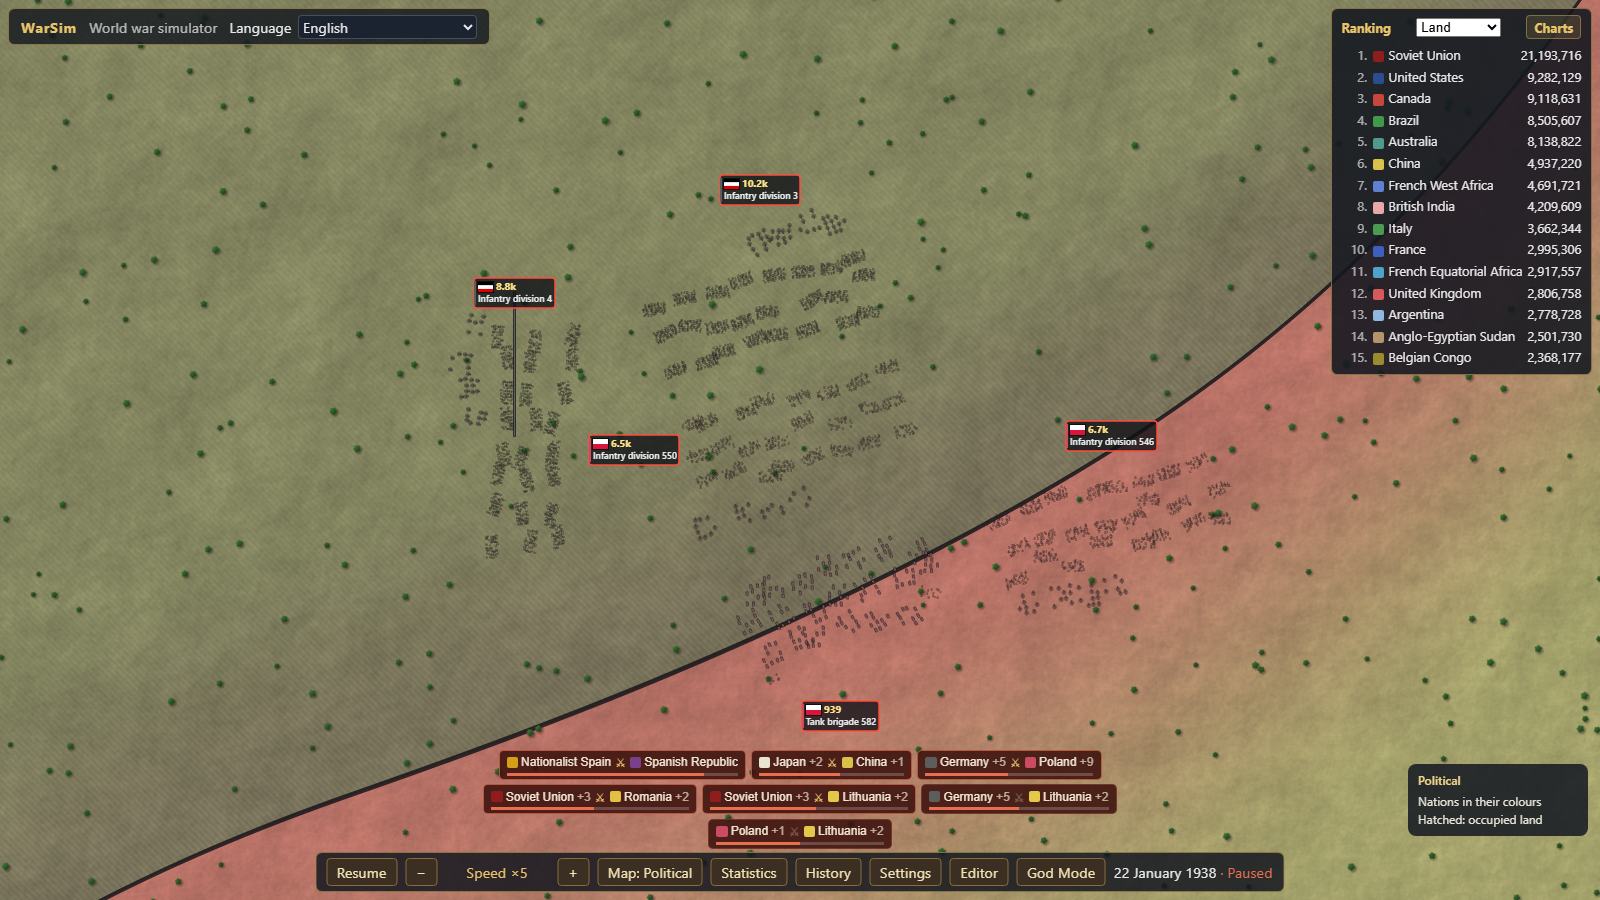
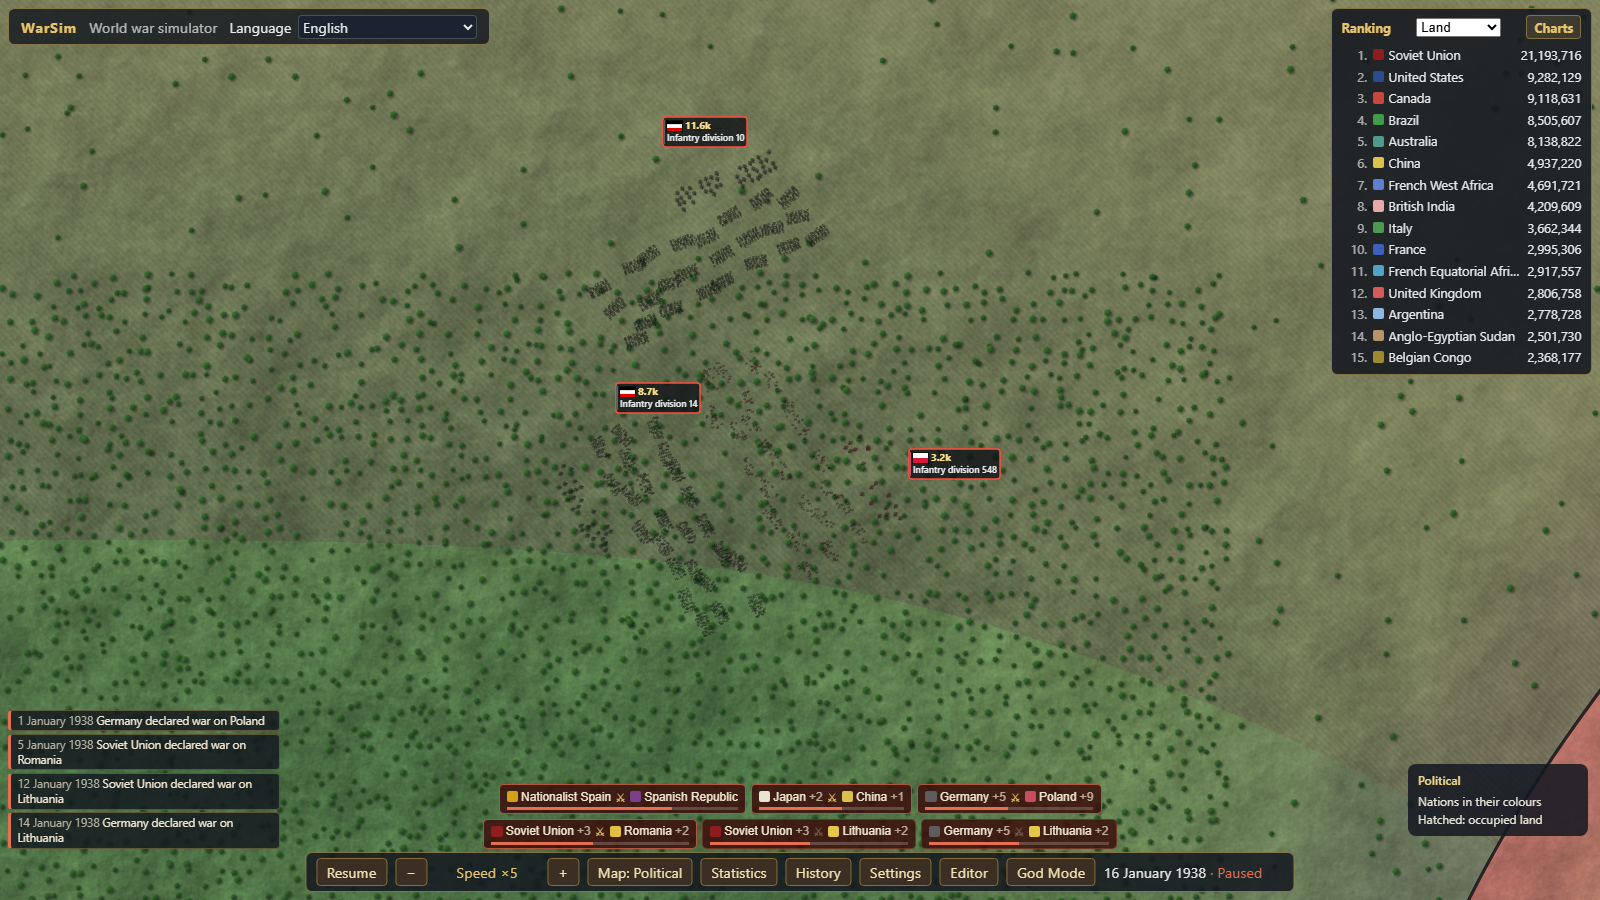
PLAN 5.8w11: the flank case, found (ADR-365)
Claude-Session: https://claude.ai/code/session_01F7jwXELFm2N2ZdjzXuwQhn

diff --git a/tests/helpers/flankCase.ts b/tests/helpers/flankCase.ts
@@ -1,0 +1,61 @@
+import { NATIONS_1938, SIZE_1938 } from '../../src/sim/scenario1938';
+import { Sim } from '../../src/sim/sim';
+import { contactsOf, deployOf, elementIndex, slotCount } from '../../src/sim/systems/elements';
+import { assets1938 } from './earth';
+
+// Where a block comes to an enemy block from its flank (PLAN 3.11c2), found in Node: the worker
+// runs the same sim (I4). The critic's other game: seed 4242, Germany declares war on Poland at
+// tick 0 (God Mode).
+
+export interface FlankCase {
+  /** The day, whole days from the start, the three are in contact on. */
+  day: number;
+  /** The German formation the Pole's block faces, the German one that comes to it, and the Pole. */
+  faced: number;
+  comer: number;
+  pole: number;
+  /** How far round from the way the Pole's block faces the comer stands, degrees. */
+  angle: number;
+}
+
+/** From the way a block faces, how far round a comer stands to come from its flank, degrees. */
+const FLANK: readonly [number, number] = [45, 135];
+
+/**
+ * The first day from `firstDay` to `lastDay` (the lowest Pole's id on it) on which a Polish
+ * formation in contact is front to front with a German one (each the other's nearest enemy in
+ * contact) and one other German formation in contact, whose nearest enemy is that Pole, stands
+ * off the way the Pole's block faces by FLANK degrees.
+ */
+export function flankCase(firstDay: number, lastDay: number): FlankCase {
+  const sim = new Sim({ scenario: '1938', seed: 4242, assets: assets1938(SIZE_1938.w) });
+  const tag = (t: string): number => NATIONS_1938.findIndex((n) => n.tag === t) + 1;
+  const [GER, POL] = [tag('GER'), tag('POL')];
+  sim.command({ kind: 'declareWar', attacker: GER, defender: POL });
+  let found: FlankCase | null = null;
+  for (let day = 1; day <= lastDay && found === null; day++) {
+    sim.step(23);
+    // The day's last hour, and the state after it.
+    sim.step(1, day < firstDay ? undefined : (w) => {
+      const c = w.formations.cols;
+      const contacts = contactsOf(w);
+      const idx = elementIndex(w);
+      const cases: FlankCase[] = [];
+      for (const [comer, pole] of contacts) {
+        if (c.nation[comer] !== GER || c.nation[pole] !== POL) continue;
+        const faced = contacts.get(pole);
+        if (faced === undefined || faced === comer || c.nation[faced] !== GER || contacts.get(faced) !== pole) continue;
+        // One comer alone: no line of others before or beside it.
+        if ([...contacts].some(([o, p]) => p === pole && o !== comer && o !== faced)) continue;
+        const block = deployOf(w, pole, slotCount(w, pole, idx.get(pole)?.length ?? 0));
+        if (!block) continue;
+        const off = Math.atan2(c.y[comer]! - block.y, c.x[comer]! - block.x) - block.facing;
+        const angle = (Math.abs(Math.atan2(Math.sin(off), Math.cos(off))) * 180) / Math.PI;
+        if (angle >= FLANK[0] && angle <= FLANK[1]) cases.push({ day, faced, comer, pole, angle });
+      }
+      found = cases.sort((a, b) => a.pole - b.pole)[0] ?? null;
+    });
+  }
+  if (found === null) throw new Error(`no block comes to a Polish block from its flank from day ${firstDay} to ${lastDay}`);
+  return found;
+}

diff --git a/tests/e2e/stackBlocks1938.spec.ts b/tests/e2e/stackBlocks1938.spec.ts
@@ -3,6 +3,7 @@ import { mkdirSync } from 'node:fs';
 import path from 'node:path';
 import type {} from '../../src/app/testApi';
 import { NATIONS_1938 } from '../../src/sim/scenario1938';
+import { flankCase } from '../helpers/flankCase';
 
 // PLAN 3.11c1 (the critic's R3-B3: "five tank formations share one cell as interleaved
 // diamonds", `critic/shots/c3j_11_tank_paused_0040m.png`): the critic's game (seed 1212, the
@@ -136,25 +137,29 @@ test('the blocks of a stack of tank corps and tank brigades in contact do not st
 // German division 4 comes to the Pole's block from 72° off the way it faces, its flank: it
 // stopped a block's depth from the block's middle and stood in it (their middles 0.17 cells
 // apart, a block being 0.24 wide) and in division 3's block. It now stops the gap short of both.
+// Since the air AI the game is another, and those three are not in contact on day 21: the case
+// is found in Node, the first day from day 14 with one (`flankCase`, PLAN 5.8w11).
 test('a block that comes to an enemy block from its flank stands in neither it nor the block it faces', async ({ page }, info) => {
   test.setTimeout(300_000);
   const out = process.env['EVIDENCE'] !== undefined ? path.resolve(import.meta.dirname, '../../docs/evidence/3.11') : info.outputPath();
   mkdirSync(out, { recursive: true });
   const GER = nation('GER');
-  const [FACED, COMER, POLE] = [3, 4, 550];
+  const flank = flankCase(14, 45);
+  const [FACED, COMER, POLE] = [flank.faced, flank.comer, flank.pole];
+  console.log(`day ${flank.day}: Polish ${POLE} faces German ${FACED}; German ${COMER} comes to it ${flank.angle.toFixed(0)}° off the way it faces`);
   await page.setViewportSize(VIEW);
   await page.goto('/?scenario=1938&paused=1&seed=4242');
   await page.waitForFunction(() => (window.__warsim?.view?.frames ?? 0) > 0 && window.__warsim!.hud.stats.value !== null && window.__warsim!.sim.mapLayers !== null, null, { timeout: 60_000 });
-  await page.evaluate(async ({ GER, POL }) => {
+  await page.evaluate(async ({ GER, POL, days }) => {
     const sim = window.__warsim!.sim;
     sim.command({ kind: 'declareWar', attacker: GER, defender: POL });
     let tick = 0;
-    for (let d = 0; d < 21; d++) tick = (await sim.step(24)).tick;
+    for (let d = 0; d < days; d++) tick = (await sim.step(24)).tick;
     await new Promise<void>((done) => {
       const wait = (): void => (window.__warsim!.view!.lastTick === tick ? done() : void setTimeout(wait, 5));
       wait();
     });
-  }, { GER, POL });
+  }, { GER, POL, days: flank.day });
 
   // The three are who the test says they are: of Germany and of Poland, in contact.
   const who = await page.evaluate(async ({ ids, GER, POL }) => {

diff --git a/DECISIONS.md b/DECISIONS.md
@@ -167,6 +167,21 @@ level directly; hillshade at higher zoom adds procedural detail (SPEC §8 T2/T3)
 runtime. Regenerating assets is idempotent (`npm run data -- --check` fails on drift), and
 `tests/unit/data-manifest.test.ts` verifies sha256, sizes, known places and pyramid consistency.
 
+### ADR-365 · 2026-10-14 · accepted — The flank case, found (PLAN 5.8w11)
+
+- **Found** (5.8h, `check:review`, the fourth run): `stackBlocks1938`'s flank test (PLAN 3.11c2)
+  named its three formations (German 3 and 4, Polish 550, day 21 of seed 4242 with Germany at
+  war with Poland); none of them is in contact on day 21 now (the game since the air AI).
+- **Decision.** The case is found in Node (`tests/helpers/flankCase.ts`, as `armourLosses`):
+  the first day from day 14 on which a Pole is front to front with a German formation and one
+  other German formation, whose nearest enemy is that Pole and no third's, stands 45° to 135°
+  off the way the Pole's block faces. Day 15 now: Polish 548 faces German 14, German 10 comes
+  to it from 94°. What the test holds the blocks to is unchanged.
+- **The pin holds**: no sim input changed.
+- **Tests.** `stackBlocks1938` green by hand (2 of 2; 1.38 to 1.92 km between the three blocks'
+  nearest elements). The evidence of 3.11 taken again (`c2-from-the-flank-20m.png`: three
+  blocks, none in another).
+
 ### ADR-364 · 2026-10-14 · accepted — Research on the page, in 1939 (PLAN 5.8w10)
 
 - **Found** (5.8h, `check:review`, the fourth run): `research1938` (PLAN 3.1e) wants Germany's

diff --git a/PROGRESS.md b/PROGRESS.md
@@ -15266,3 +15266,16 @@ No rule changed and nothing on screen changed. One task came out of it.
 - **The gate:** green (the whole unit suite, 1,391 of 1,391: the working tree's `package.json`;
   the changed spec).
 - **Next:** PLAN 5.8w11.
+
+## 2026-10-14 — PLAN 5.8w11: the flank case, found (ADR-365)
+
+- **Found:** the test's three formations (German 3, 4, Polish 550 on day 21 of seed 4242) are
+  not in contact in today's game.
+- **Done:** `tests/helpers/flankCase.ts` (new) finds the first day from 14 with a German block
+  that comes to a Polish one from its flank (day 15: 548, 14, 10 from 94°); the test plays it.
+- **Tests:** `stackBlocks1938` green by hand (2 of 2).
+- **Looked at:** `docs/evidence/3.11/c2-from-the-flank-20m.png` (16 January 1938): divisions 10,
+  14 and 548 three blocks, none in another.
+- **The gate:** the whole unit suite (a helper added: 1,390 of 1,391) red only by `scenario1938`'s
+  build time of BLOCKERS (green alone); the pin, build, parity and the changed spec green.
+- **Next:** PLAN 5.8w12.

diff --git a/PLAN.md b/PLAN.md
@@ -71,8 +71,7 @@ quick sweep as a smoke test.
   - [x] 5.8w8 The review's fourth run (found by it, the first to its end): `loadedEffects1938` […]
   - [x] 5.8w9 `markerStacks1938` (:229): back from T2, the T1 boxes are not parted at rest at […]
   - [x] 5.8w10 `research1938` (:30): Germany works on 2 techs, not 3, within 20 s. The cause […]
-  - [ ] 5.8w11 `stackBlocks1938` (:167): the flank case finds its three formations, none engaged
-    (`[false, false, false]`). Its day was picked in the game before Phase 5 changed it.
+  - [x] 5.8w11 `stackBlocks1938` (:167): the flank case finds its three formations, none engaged […]
   - [ ] 5.8w12 `toBattle1938` (:327): weeks into Germany against Poland, the two formations the
     banner leads to do not stand front to front (`leaders` `[false, false]`).
   - [ ] 5.8w13 `wrecks1938` (:158): wreck 15063 lies 0.35 from where its sprite stood (less than

diff --git a/docs/PLAN_DONE.md b/docs/PLAN_DONE.md
@@ -8358,3 +8358,20 @@ Of 5.8 (open in PLAN.md):
 
   - [x] 5.8w10 `research1938` (:30): Germany works on 2 techs, not 3, within 20 s. The cause
     first: the rule, or the 1938 game since Phase 5 (air builds).
+
+<!-- moved 2026-10-14 -->
+
+## Phase 0 — Foundations & benchmarks
+## Phase 1 — Baseline parity
+### 1A Data & scenario
+### 1B Core sim
+### 1C Presentation & tools
+## Phase 2 — Semantic zoom
+## Phase 3 — Armour
+## Phase 4 — Naval
+## Phase 5 — Air
+
+Of 5.8 (open in PLAN.md):
+
+  - [x] 5.8w11 `stackBlocks1938` (:167): the flank case finds its three formations, none engaged
+    (`[false, false, false]`). Its day was picked in the game before Phase 5 changed it.
